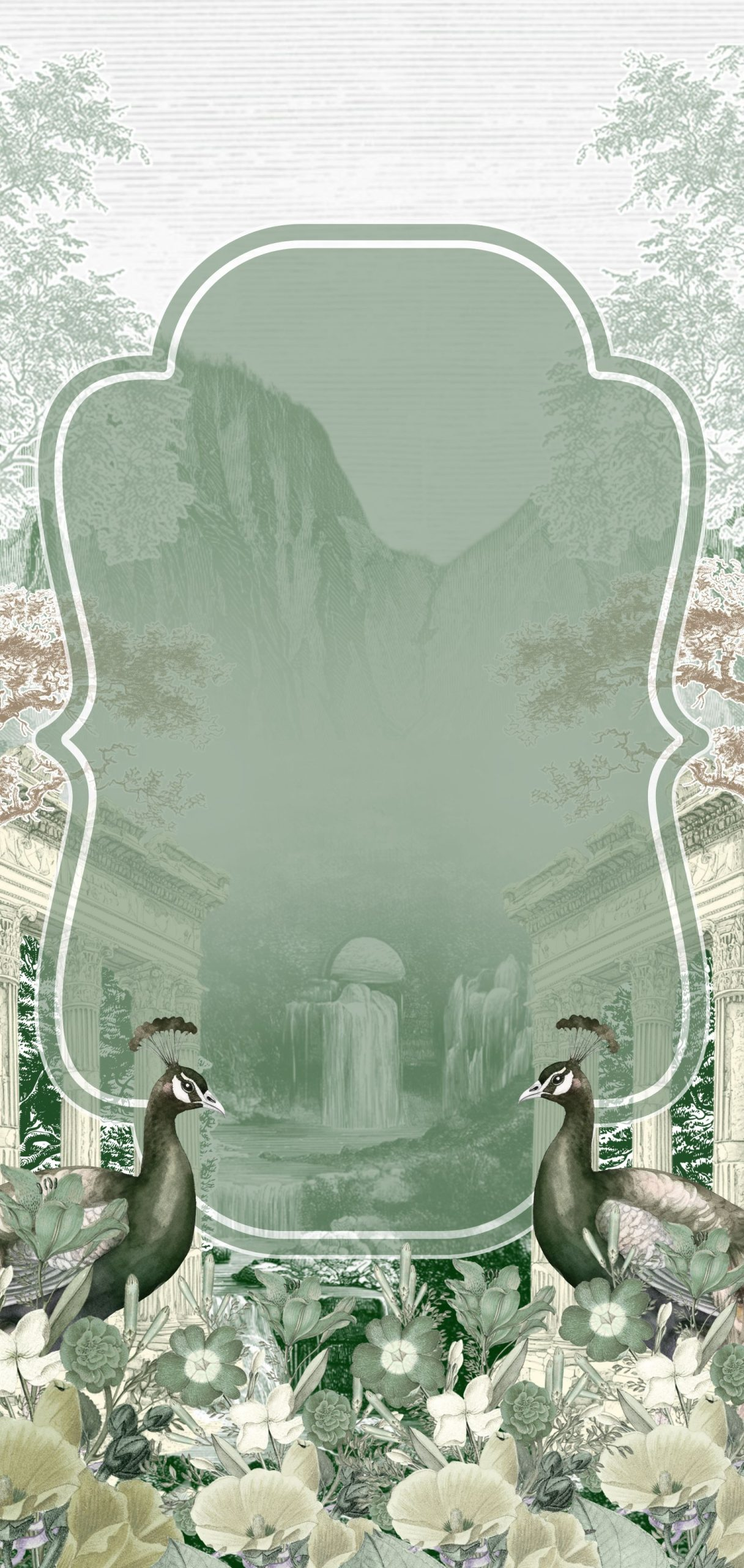
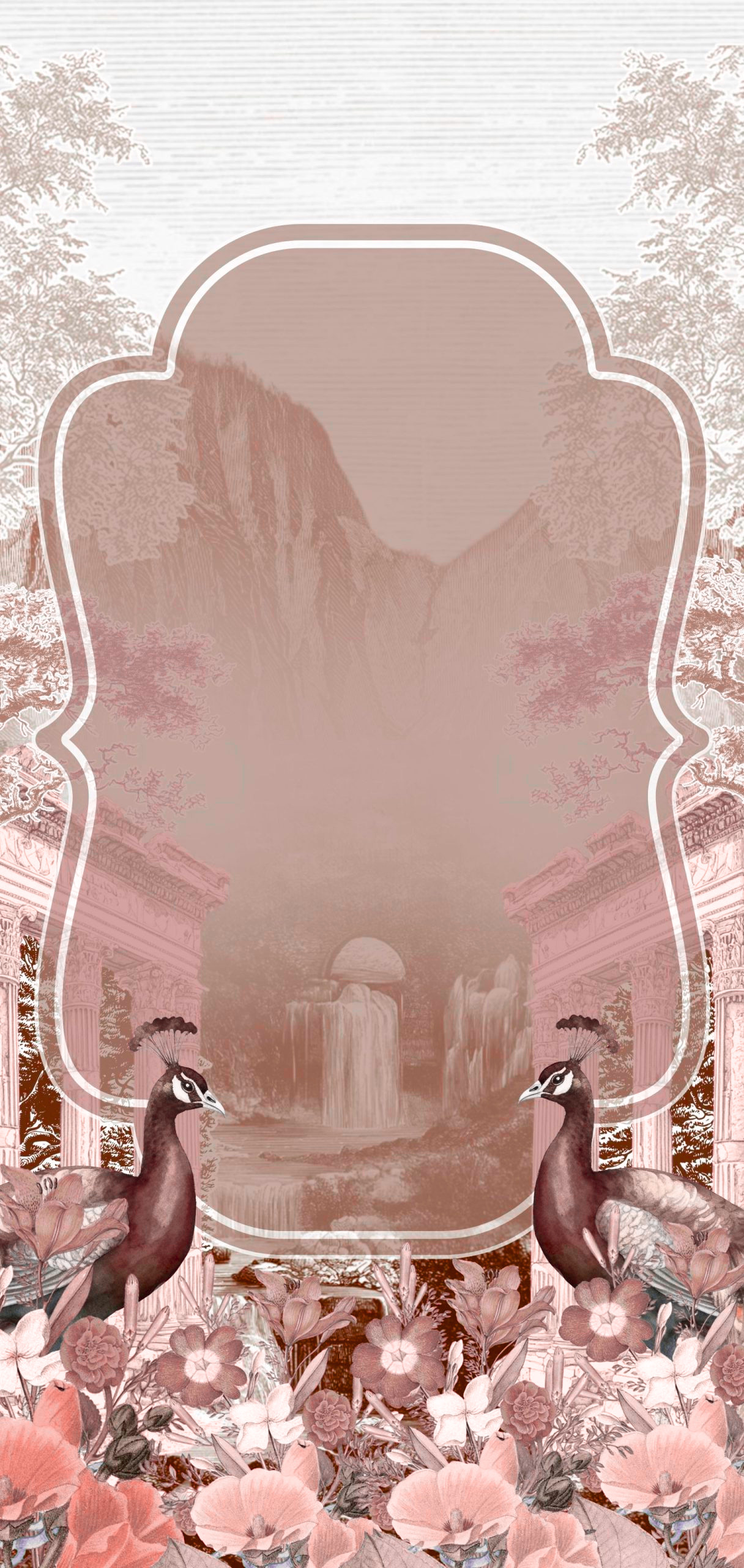
revisi 1

diff --git a/src/components/BottomNav.tsx b/src/components/BottomNav.tsx
@@ -6,11 +6,11 @@ interface BottomNavProps {
 }
 
 const navItems = [
-  { id: "home", icon: Home, label: "Home" },
-  { id: "couple", icon: Heart, label: "Couple" },
-  { id: "event", icon: Calendar, label: "Event" },
-  { id: "gallery", icon: Image, label: "Gallery" },
-  { id: "wish", icon: MessageCircle, label: "Wish" },
+  { id: "home", icon: Home, label: " " },
+  { id: "couple", icon: Heart, label: " " },
+  { id: "event", icon: Calendar, label: " " },
+  { id: "gallery", icon: Image, label: " " },
+  { id: "wish", icon: MessageCircle, label: " " },
 ];
 
 const BottomNav = ({ activeSection }: BottomNavProps) => {
@@ -23,8 +23,8 @@ const BottomNav = ({ activeSection }: BottomNavProps) => {
     <motion.nav
       className="fixed bottom-0 left-0 right-0 z-40 flex justify-around items-center py-2 px-2 backdrop-blur-md"
       style={{
-        backgroundColor: "rgba(61,74,53,0.85)",
-        borderTop: "1px solid rgba(180,165,130,0.3)",
+        backgroundColor: "rgba(97, 62, 80, 0.85)",
+        borderTop: "1px solid rgb(186, 74, 162)",
       }}
       initial={{ y: 100 }}
       animate={{ y: 0 }}
@@ -38,7 +38,7 @@ const BottomNav = ({ activeSection }: BottomNavProps) => {
             key={item.id}
             onClick={() => scrollTo(item.id)}
             className="flex flex-col items-center gap-0.5 px-2 py-1 transition-colors"
-            style={{ color: isActive ? "#f0ebe0" : "rgba(240,235,224,0.5)" }}
+            style={{ color: isActive ? "#754669" : "rgba(216, 107, 173, 0.5)" }}
           >
             <Icon size={18} />
             <span className="font-body text-[9px]">{item.label}</span>

diff --git a/src/components/GallerySection.tsx b/src/components/GallerySection.tsx
@@ -27,14 +27,16 @@ const item = {
 };
 
 const images = [
-  "/images/couple-main.jpeg",
-  "/images/bride.jpeg",
-  "/images/groom.jpeg",
-  "/images/couple-2.jpeg",
-  "/images/story-1.jpeg",
-  "/images/story-3.jpeg",
-  "/images/story-4.jpeg",
-  "/images/story-5.jpeg",
+  "/images/WhatsApp Image 2026-04-16 at 09.45.55.jpeg",
+  "/images/WhatsApp Image 2026-04-16 at 09.45.52.jpeg",
+  "/images/WhatsApp Image 2026-04-16 at 09.45.57.jpeg",
+  "/images/WhatsApp Image 2026-04-16 at 09.46.06.jpeg",
+  "/images/WhatsApp Image 2026-04-16 at 09.54.17.jpeg",
+  "/images/WhatsApp Image 2026-04-16 at 09.46.07.jpeg",
+  "/images/WhatsApp Image 2026-04-16 at 09.54.16.jpeg",
+  "/images/WhatsApp Image 2026-04-16 at 09.54.08.jpeg",
+  "/images/WhatsApp Image 2026-04-16 at 09.46.04.jpeg",
+  "/images/WhatsApp Image 2026-04-16 at 09.45.51.jpeg",
 ];
 
 const GallerySection = () => {

diff --git a/src/components/CoverSection.tsx b/src/components/CoverSection.tsx
@@ -36,7 +36,7 @@ const CoverSection = ({
         >
           <img
             src="/images/couple-main.jpeg"
-            alt="Icha & Andri"
+            alt="cewe & cowo"
             className="w-full h-full object-cover"
           />
         </motion.div>
@@ -55,7 +55,7 @@ const CoverSection = ({
           animate={{ scale: 1, opacity: 1, y: -100 }}
           transition={{ delay: 0.5 }}
         >
-          Icha & Andri
+          Cewe & Cowo
         </motion.h1>
         <motion.div
           initial={{ opacity: 0 }}

diff --git a/src/components/CoupleSection.tsx b/src/components/CoupleSection.tsx
@@ -30,7 +30,7 @@ const CoupleSection = () => {
       className="min-h-[150vh] py-24 px-6 relative flex items-center justify-center overflow-hidden bg-[url('/images/16-2-scaled-1.jpg')] bg-cover bg-center"
     >
       {/* OVERLAY SAGE TIPIS */}
-      <div className="absolute inset-0 bg-[#7f8f7a]/30" />
+      <div className="absolute inset-0 bg-[#e3999d]/30" />
 
       {/* OVAL HIJAU DALAM */}
       <div className="absolute inset-0 flex items-center justify-center z-0">

diff --git a/src/components/QuranVerse.tsx b/src/components/QuranVerse.tsx
@@ -49,7 +49,7 @@ const QuranVerse = () => {
       className="py-20 px-6 relative overflow-hidden bg-[url('/images/ornament-bg.png')] bg-cover bg-center"
     >
       {/* overlay hijau biar mirip desain */}
-      <div className="absolute inset-0 bg-[#7f8f7a]/60" />
+      <div className="absolute inset-0 bg-[#e3999d]/25" />
 
       {/* ornament bawah */}
       <div className="absolute bottom-0 w-full">
